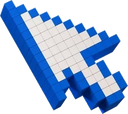
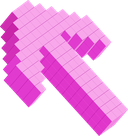
Swap cursor to the pink 3D pixel arrow
Same magnetic behaviour; hotspot re-aligned to the new arrow's tip.

Claude-Session: https://claude.ai/code/session_01BiPfPw9JMmVGsdTrP93LQs

diff --git a/src/index.css b/src/index.css
@@ -152,8 +152,8 @@ a:hover .roll > span, button:hover .roll > span { transform: translateY(-100%); 
 /* ── Cursor ──────────────────────────────────────────────────── */
 /* Without JS (or with reduced motion) the arrow is still used, as a plain CSS cursor */
 @media (hover: hover) and (pointer: fine) {
-  html { cursor: url("/images/cursor-40.png") 1 1, auto; }
-  a, button, [role="button"], label, select { cursor: url("/images/cursor-40.png") 1 1, pointer; }
+  html { cursor: url("/images/cursor-40.png") 4 3, auto; }
+  a, button, [role="button"], label, select { cursor: url("/images/cursor-40.png") 4 3, pointer; }
 }
 html.has-cursor, html.has-cursor * { cursor: none !important; }
 html.has-cursor input, html.has-cursor textarea { cursor: text !important; }
@@ -164,11 +164,11 @@ html.has-cursor input, html.has-cursor textarea { cursor: text !important; }
 }
 .cursor__arrow {
   display: block; height: auto; max-width: none; user-select: none;
-  filter: drop-shadow(0 6px 10px rgba(0, 0, 0, .35));
+  filter: drop-shadow(0 6px 10px rgba(0, 0, 0, .4));
   will-change: transform;
 }
 .cursor__chip {
-  position: absolute; left: 30px; top: 40px;
+  position: absolute; left: 34px; top: 44px;
   padding: 7px 12px; border-radius: 999px;
   background: var(--white); color: #000;
   font-size: 13px; font-weight: 500; letter-spacing: .01em; white-space: nowrap;

diff --git a/src/components/Cursor.jsx b/src/components/Cursor.jsx
@@ -1,9 +1,9 @@
 import { useEffect, useRef } from 'react';
 import { gsap, reducedMotion } from '../lib/motion.js';
 
-// Tip of the arrow inside cursor.png (128×114), in image pixels
-const TIP = { x: 4.5, y: 2.7 };
-const SIZE = 52;                    // rendered width in CSS px
+// Tip of the arrow inside cursor.png (128×136), in image pixels
+const TIP = { x: 12.7, y: 11.2 };
+const SIZE = 46;                    // rendered width in CSS px
 const K = SIZE / 128;
 
 // What the cursor is drawn to, and what is drawn to the cursor
@@ -11,7 +11,7 @@ const INTERACTIVE = 'a, button, [role="button"], input, textarea, select, label,
 const PULLS_ELEMENT = '[data-magnetic], .nav__links a, .nav__logo, .foot__mail, .foot__col a, .foot__base button, .u-link, .hero__scroll, .menu__row, .pill';
 
 /**
- * 3D pixel-arrow cursor.
+ * 3D pink pixel-arrow cursor.
  * - follows the pointer with a short lag and leans into its motion
  * - magnetic: over links and buttons it is pulled toward their centre,
  *   and small targets (nav, footer links…) drift toward it in return
